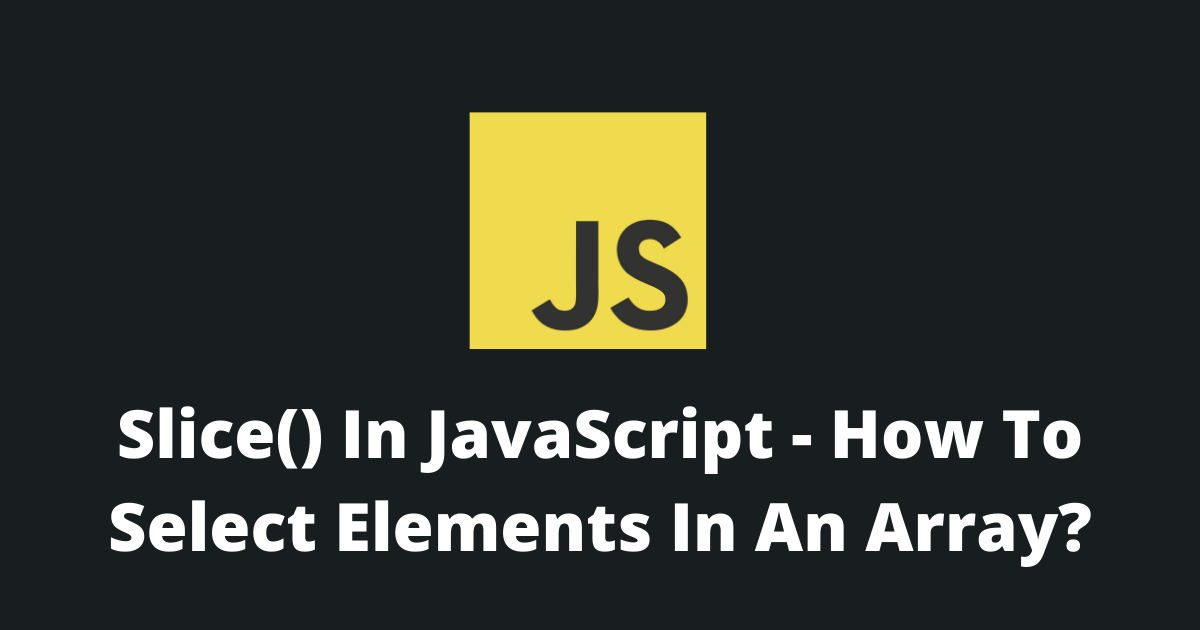
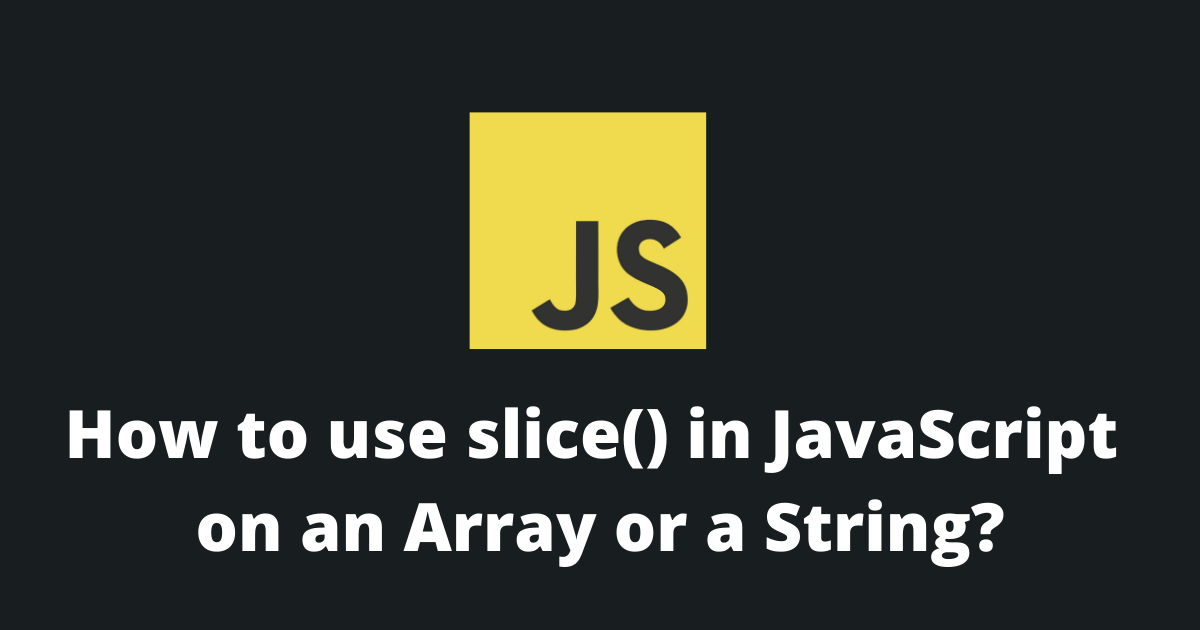
Added some work on the new article

Changed region(s): [[0.0308, 0.6333, 0.925, 0.754], [0.0925, 0.7841, 0.925, 0.9048]]

diff --git a/public/static/markdown/blog/javascript-slice/en.md b/public/static/markdown/blog/javascript-slice/en.md
@@ -1,5 +1,5 @@
 ---
-title: Slice() In JavaScript - How To Select Elements In An Array?
+title: How to use slice() in JavaScript on an Array or a String?
 openGraphImage: /static/images/blog/javascript-slice/cover.png
 date: 2021-12-08
 description: A guide on how to get the time in JavaScript? Seconds. Milliseconds. Differences.
@@ -7,15 +7,29 @@ author: Tim Mouskhelichvili
 tags: javascript
 ---
 
+In JavaScript, the `slice()` function is part of both the Array and the String prototype.
+
+This function is used to select *items* or *characters* based on the provided indices.
+
+In this article, you will find all the information needed, for you to become a pro of the `slice()` function.
+
+I will also provide a lot of common use examples that will help you better understand this function.
+
 ![JavaScript Slice](/static/images/blog/javascript-slice/cover.png)
 
 <Summary />
 
 ## Definition
 
-The `slice()` built-in array function is used to select a portion of elements from an array.
+For an array, the `slice()` built-in function is used to select *items* based on the provided indices.
 
-You can select part of an array by using the `start` and the `end` parameters.
+For a string, the `slice()` built-in function is used to select *characters* based on the provided indices.
+
+The `slice()` function will NOT modify the original array or string.
+
+By using the `start` and the `end` parameters you can specify what portion of the array or string you want to select.
+
+Here is the `slice()` function in action with an array:
 
 ```javascript
 const languages = ['english', 'french', 'german', 'spanish', 'russian', 'japanese'];
@@ -33,11 +47,31 @@ console.log(languages.slice(-3));
 console.log(languages.slice(3, -2));
 ```
 
+Here is the `slice()` function in action with a string:
+
+```javascript
+const str = 'This is a very long string!';
+
+// This will return: "very long string!"
+console.log(str.slice(10));
+
+// This will return: "This"
+console.log(str.slice(0, 4));
+
+// This will return: "string!"
+console.log(str.slice(-7));
+
+// This will return: "string"
+console.log(str.slice(-7, -1));
+```
+
 This is the syntax of the `slice()` function.
 
 ```javascript
 arr.slice([ start[, end ]])
 ```
+
+*P.S. If you don't specify any parameters, the `slice()` function will return a copy of the entire array or string.*
 
 ### Parameters
 
@@ -48,15 +82,19 @@ arr.slice([ start[, end ]])
 
 > **Start Parameter**
 > 1. If the start parameter is `undefined`, the extraction will begin at index `ZERO`.
-> 2. If the start parameter is greater than the length of the array, an empty array will be returned.
+> 2. For an array, if the start parameter is greater than the length of the array, an empty array will be returned.
+> 3. For a string, if the start parameter is greater than the length of the string, an empty string will be returned.
 
 > **End Parameter**
-> 1. If the end parameter is omitted, the extraction will end at `arr.length`.
-> 2. If the end parameter is greater than the length of the array, the extraction will end at `arr.length`.
+> 1. If the end parameter is omitted, the extraction will end at the length of the array or the string.
+> 2. For an array, if the end parameter is greater than the length of the array, the end index will be the length of the array.
+> 3. For a string, if the end parameter is greater than the length of the string, the end index will be the length of the string.
 
 ### Return Value
 
-A new array containing part of the array.
+For the array, a new array containing part of the original array.
+
+For the string, a new string containing part of the original string.
 
 ## Browser Support
 
